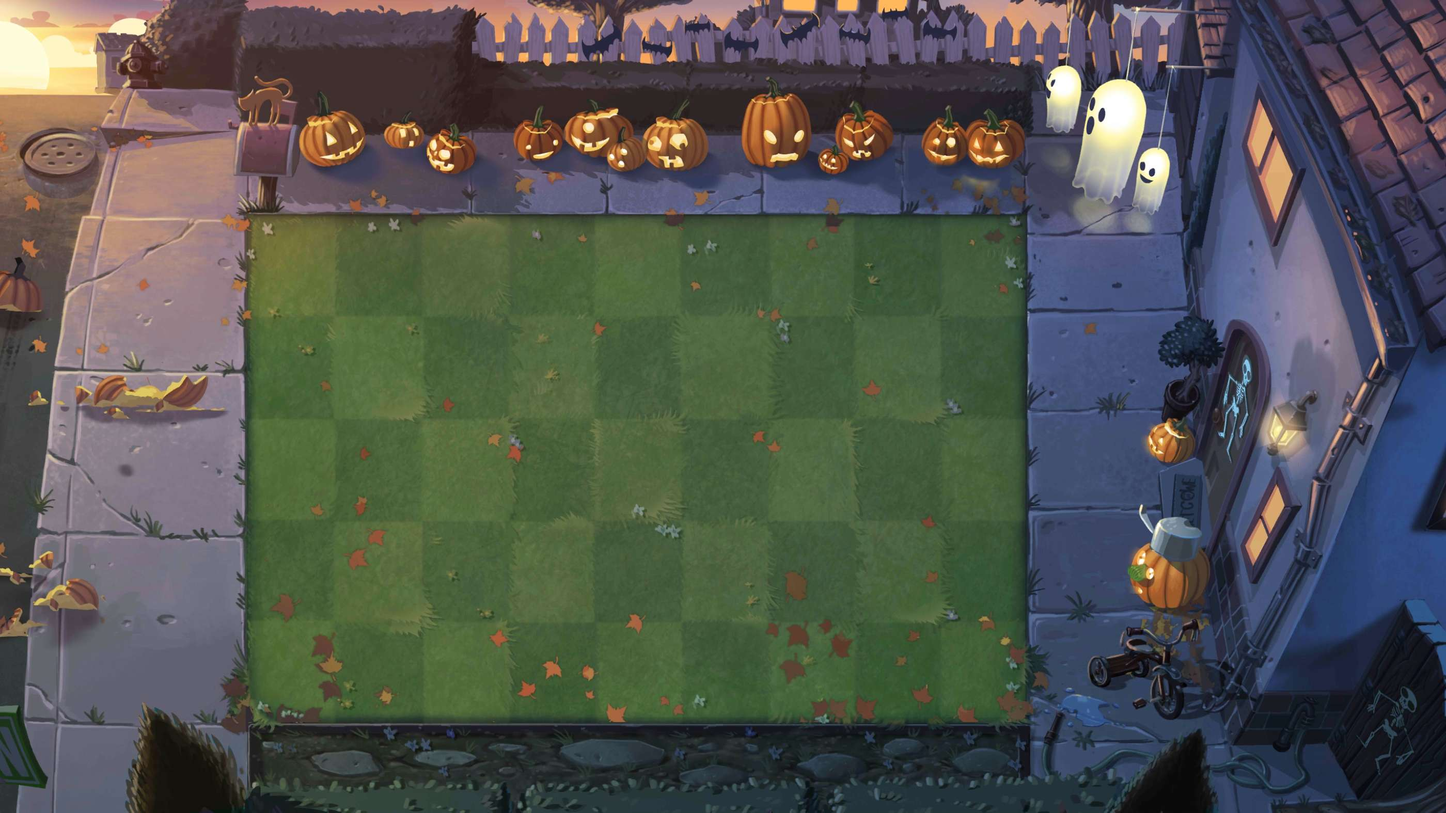
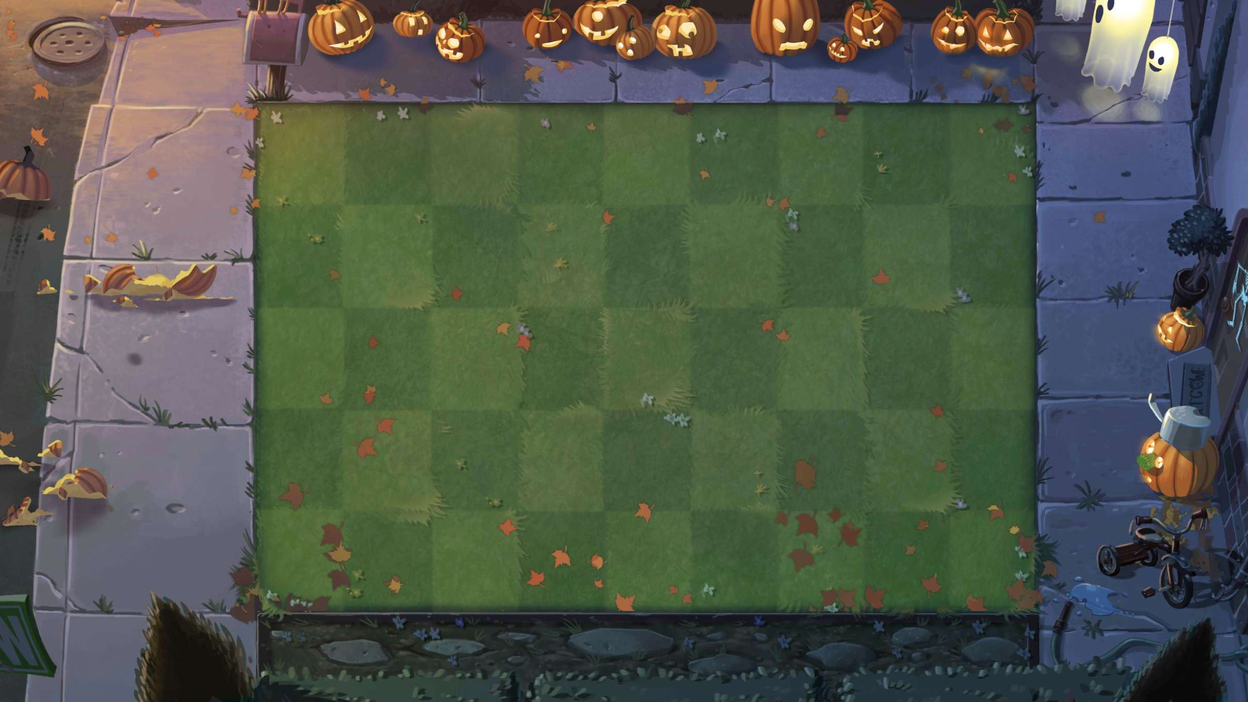
Updated level backgrounds and improved UI - Cropped level backgrounds in 16:9 ratio - Implemented dynamic screen end position - Fixed assets path issue

diff --git a/assets/js/game.js b/assets/js/game.js
@@ -5,11 +5,13 @@ const MAX_FIRST_NUM = 15
 const MAX_SECOND_NUM = 10
 const MAX_GAME_TIME = 60
 
+let screenEnd = visualViewport.width
 let currentLevel = 1
 let correctRow = -1
 let answer = 0
 let remainingTime = MAX_GAME_TIME
 
+const levelContainer = document.querySelector("#level-container")
 const playerElements = document.querySelectorAll(".player")
 const zombieElements = document.querySelectorAll(".zombie")
 
@@ -34,9 +36,11 @@ class Player {
         const randomPlayerIndex = Math.floor(Math.random() * this.elements.length)
         for (let i = 0; i < this.elements.length; i++) {
             this.elements[i].classList.add("hidden")
+            this.elements[i].classList.remove("row-item")
             this.elements[i].querySelector("p").innerText = answer
             if (i === randomPlayerIndex) {
                 this.elements[i].classList.remove("hidden")
+                this.elements[i].classList.add("row-item")
                 this.moveIndex = i
             }
         }
@@ -48,8 +52,10 @@ class Player {
         }
     
         this.elements[this.moveIndex].classList.add("hidden")
+        this.elements[this.moveIndex].classList.remove("row-item")
         this.moveIndex--
         this.elements[this.moveIndex].classList.remove("hidden")
+        this.elements[this.moveIndex].classList.add("row-item")
     }
 
     moveDown = () => {
@@ -58,8 +64,10 @@ class Player {
         }
     
         this.elements[this.moveIndex].classList.add("hidden")
+        this.elements[this.moveIndex].classList.remove("row-item")
         this.moveIndex++
         this.elements[this.moveIndex].classList.remove("hidden")
+        this.elements[this.moveIndex].classList.add("row-item")
     }
 }
 
@@ -71,11 +79,11 @@ class Zombie {
     }
 
     setup = (randomQuestion, currentLevel) => {
-        this.element.querySelector("p").innerText = `${randomQuestion.firstNumber}x${randomQuestion.secondNumber}=${randomQuestion.answer}`
+        this.element.querySelector("p").innerText = `${randomQuestion.firstNumber}x${randomQuestion.secondNumber}=?`
         this.element.querySelector("img").src = `assets/img/level-${currentLevel}/zombie-${this.index + 1}.png`
 
         const moveZombie = () => {
-            if (pos === visualViewport.width - visualViewport.width * 0.10) {
+            if (pos === screenEnd) {
                 console.log("end reached " + pos)
                 this.stopMove()
                 gameOver(false)
@@ -183,7 +191,7 @@ const nextLevel = () => {
 }
 
 const setupLevel = () => {
-    document.querySelector("#level-container").style.backgroundImage = `url('/assets/img/level-${currentLevel}/background.jpg')`
+    document.querySelector("#level-container").style.backgroundImage = `url('./assets/img/level-${currentLevel}/background.jpg')`
     currentLevelText.innerText = `Level ${currentLevel}/${MAX_LEVEL}`
     setupZombies()
     player.setup()
@@ -230,5 +238,10 @@ const onKeyDown = (e) => {
     }
 }
 
+const onWindowResize = () => {
+    screenEnd = visualViewport.width
+}
+
 window.addEventListener("load", main)
+window.addEventListener('resize', onWindowResize);
 document.querySelector("body").addEventListener("keydown", onKeyDown)

diff --git a/assets/css/game.css b/assets/css/game.css
@@ -2,12 +2,14 @@
     margin: 0;
     padding: 0;
     box-sizing: border-box;
+    font-family: Impact, Haettenschweiler, 'Arial Narrow Bold', sans-serif;
 }
 
 p {
-    background-color: #000000;
-    color: #ffffff;
+    background-color: rgba(255, 255, 255, 0.7); /*102, 83, 147*/
+    color: rgb(102, 83, 147);
     padding: 5px;
+    border-radius: 5px;
 }
 
 main {
@@ -15,7 +17,7 @@ main {
 }
 
 .hidden {
-    display:none;
+    display: none;
 }
 
 .align-middle {
@@ -39,7 +41,8 @@ main {
     /* border: 2px solid red; */
     display: flex;
     flex-direction: column;
-    justify-content: center;
+    /* justify-content: center; */
+    width: 100vw;
     height: 100vh;
 }
 
@@ -59,14 +62,20 @@ main {
     flex-direction: row;
     justify-content: space-between;
     padding-left: 10px;
-    padding-right: 90px;
+    padding-right: 8vw;
+    width: 100%;
+    height: auto;
     /* zoom: 0.2; */
 }
 
 .row-item {
+    display: flex;
+    flex-direction: column;
     /* border: 2px solid springgreen; */
     color: #ffffff;
+    justify-content: center;
     text-align: center;
+    height: auto;
 }
 
 .row-item img {
@@ -76,10 +85,10 @@ main {
 
 #level-container{
     position: relative;
-    background-image: url('/assets/img/level-1/background.jpg');
+    background-image: src="assets/img/level-1/background.jpg";
     background-repeat: no-repeat;
     background-position: center center;
-    background-size: contain;
+    background-size: cover;
     padding: 10px;
 }
 

diff --git a/game.html b/game.html
@@ -4,10 +4,10 @@
     <meta charset="UTF-8">
     <meta http-equiv="X-UA-Compatible" content="IE=edge">
     <meta name="viewport" content="width=device-width, initial-scale=1.0">
-    <link rel="apple-touch-icon" sizes="180x180" href="/assets/img/favicon/apple-touch-icon.png">
-    <link rel="icon" type="image/png" sizes="32x32" href="/assets/img/favicon/favicon-32x32.png">
-    <link rel="icon" type="image/png" sizes="16x16" href="/assets/img/favicon/favicon-16x16.png">
-    <link rel="manifest" href="/assets/img/favicon/site.webmanifest">
+    <link rel="apple-touch-icon" sizes="180x180" href="assets/img/favicon/apple-touch-icon.png">
+    <link rel="icon" href="assets/img/favicon/favicon.ico" type="image/x-icon" />
+    <link rel="icon" type="image/png" sizes="32x32" href="assets/img/favicon/favicon-32x32.png">
+    <link rel="icon" type="image/png" sizes="16x16" href="assets/img/favicon/favicon-16x16.png">
     <link type="text/css" rel="stylesheet" href="assets/css/game.css">
     <title>Math vs Zombies</title>
 </head>
